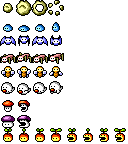
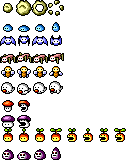
Skull slime, does not explode yet

diff --git a/src/enemytypes.ts b/src/enemytypes.ts
@@ -8,6 +8,7 @@
 const getEnemyList = () : Array<Function> => [
     Slime, Bat, Spider, Fly,
     Spook, Fungus, FatFungus, Apple,
+    SkullSlime,
 ];
 
 
@@ -532,4 +533,62 @@ class Apple extends Enemy {
         this.forward = !pl.isAttacking() && !pl.isReadyingSpinAttack();
     }
 
+}
+
+
+class SkullSlime extends Enemy {
+
+    
+    private dir : Vector2;
+
+
+    constructor(x : number, y : number) {
+
+        super(x, y, 9, 10);
+
+        this.shadowType = 1;
+        this.spr.setFrame((Math.random() * 4) | 0, this.spr.getRow());
+
+        this.friction = new Vector2(0.025, 0.025);
+        this.dir = new Vector2(0, 1);
+
+        this.radius = 4;
+        this.damage = 3;
+
+        this.hitbox = new Vector2(6, 4);
+        this.collisionBox = this.hitbox.clone();
+        this.damageBox = new Vector2(10, 10);
+    }
+
+
+    protected updateAI(ev : GameEvent) {
+        
+        const ANIM_SPEED = 12;
+        const RUSH_SPEED = 1.0;
+
+        let oldFrame = this.spr.getColumn();
+        this.spr.animate(this.spr.getRow(), 0, 3, ANIM_SPEED, ev.step);
+
+        if (oldFrame == 0 && this.spr.getColumn() != oldFrame) {
+
+            this.speed = Vector2.scalarMultiply(this.dir, RUSH_SPEED);
+            this.flip = this.speed.x < 0 ? Flip.None : Flip.Horizontal;
+        }   
+    }
+
+
+    protected playerEvent(pl : Player, ev : GameEvent) {
+
+        this.dir = Vector2.direction(this.pos, pl.getPos());
+    }
+
+
+    protected wallCollisionEvent(dirx : number, diry : number, ev : GameEvent) {
+
+        if (Math.abs(dirx) > 0)
+            this.speed.x *= -1;
+
+        if (Math.abs(diry) > 0)
+            this.speed.y *= -1;
+    }
 }
